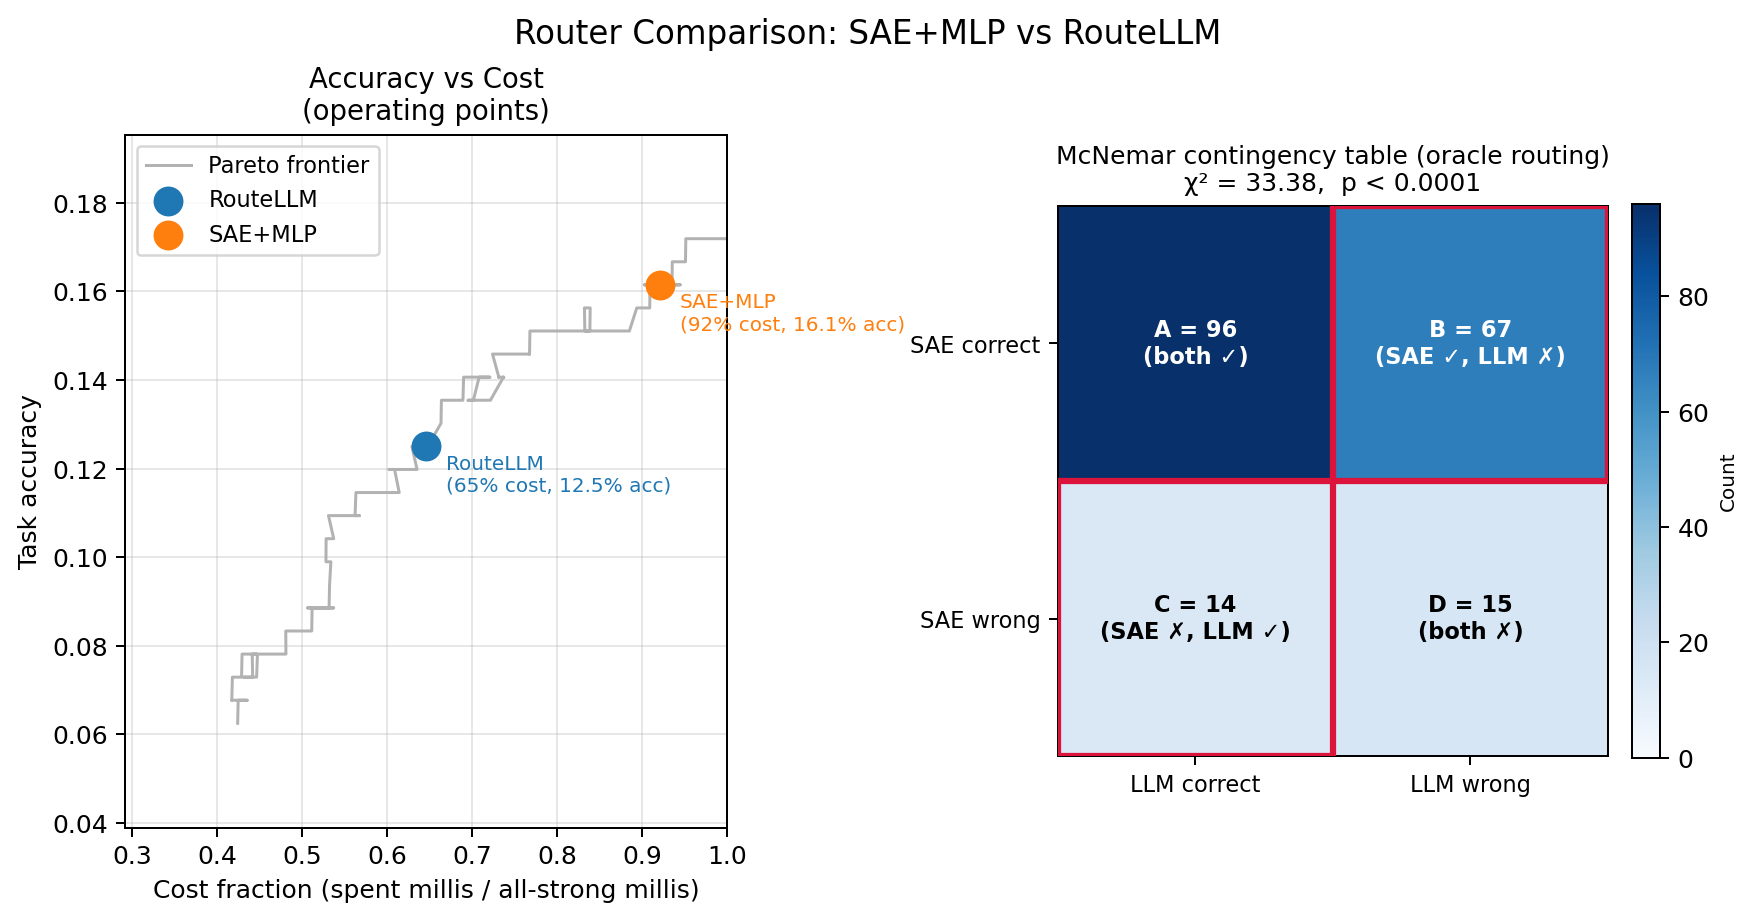
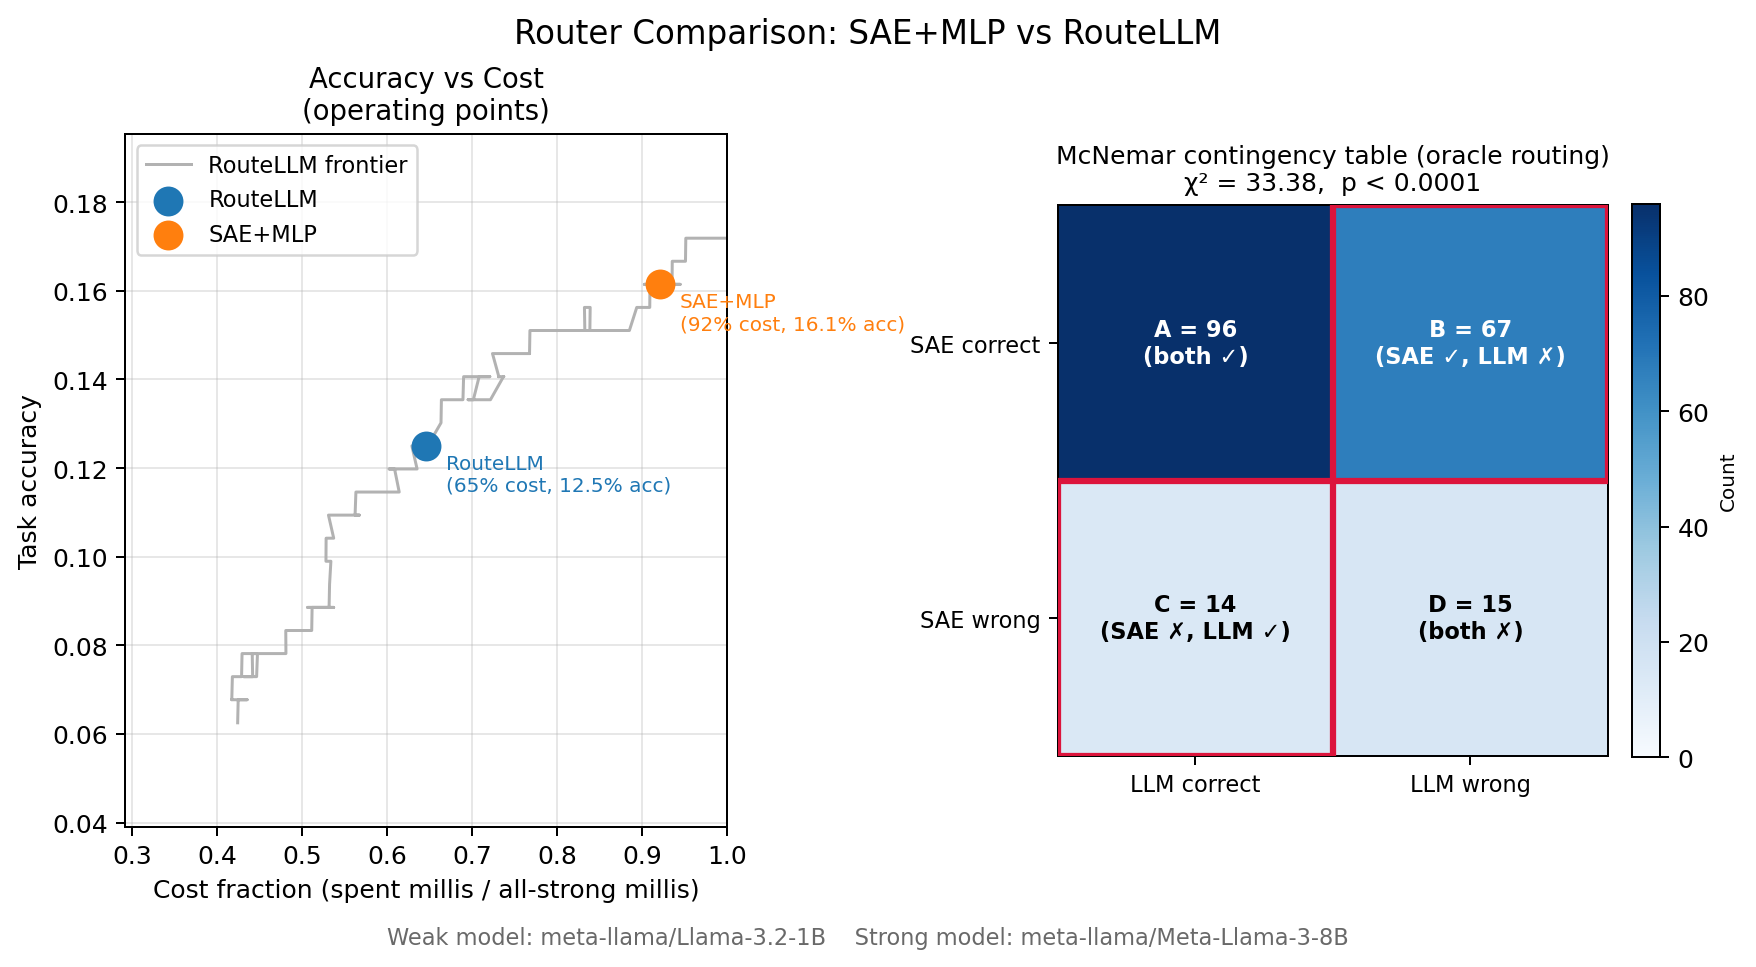
better labeling

diff --git a/util/stats_util.py b/util/stats_util.py
@@ -117,7 +117,7 @@ def calculate(
         ax1.plot(
             [p.cost_fraction for p in frontier],
             [p.accuracy      for p in frontier],
-            color="grey", linewidth=1.2, alpha=0.6, zorder=1, label="Pareto frontier",
+            color="grey", linewidth=1.2, alpha=0.6, zorder=1, label="RouteLLM frontier",
         )
     except ValueError:
         pass
@@ -188,6 +188,11 @@ def calculate(
     cb.set_label("Count", fontsize=8)
 
     fig.suptitle("Router Comparison: SAE+MLP vs RouteLLM", fontsize=13, y=1.01)
+    fig.text(
+        0.5, -0.02,
+        f"Weak model: {weak_model_name}    Strong model: {strong_model_name}",
+        ha="center", fontsize=9, color="dimgrey",
+    )
     plt.savefig(out_path, dpi=180, bbox_inches="tight")
     plt.close()
     print(f"\nPlot saved to {out_path}")
